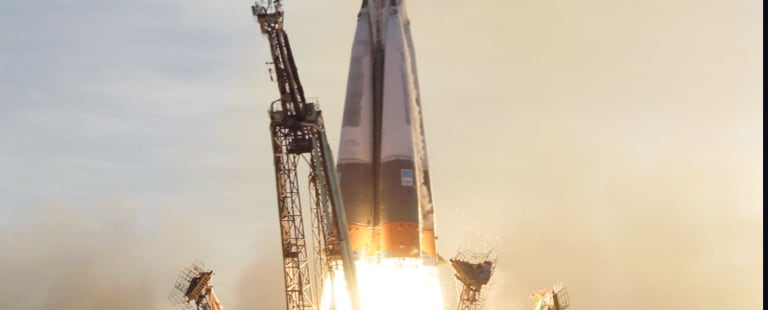
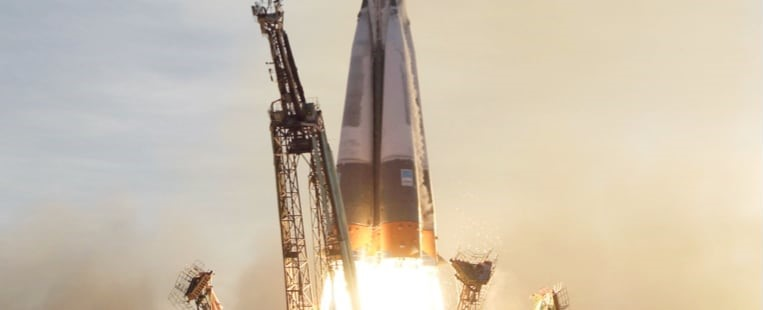
crew mobile page fully functional
- edited launch vehicle photo to remove empty space

diff --git a/space-tourism-website-challange/src/components/Technology.jsx b/space-tourism-website-challange/src/components/Technology.jsx
@@ -1,23 +1,30 @@
 import React, { useState, useEffect } from 'react'
 
-import vehicleImg from "../assets/technology/image-launch-vehicle-portrait.jpg";
-import portImg from "../assets/technology/image-spaceport-portrait.jpg";
-import capsuleImg from "../assets/technology/image-space-capsule-portrait.jpg";
+import vehicleImgP from "../assets/technology/image-launch-vehicle-portrait.jpg";
+import vehicleImgL from "../assets/technology/image-launch-vehicle-landscape.jpg";
+import portImgP from "../assets/technology/image-spaceport-portrait.jpg";
+import portImgL from "../assets/technology/image-spaceport-landscape.jpg"
+import capsuleImgP from "../assets/technology/image-space-capsule-portrait.jpg";
+import capsuleImgL from "../assets/technology/image-space-capsule-landscape.jpg";
 
 export const Technology = () => {
+  const vehicleImg = {portrait: vehicleImgP, landscape: vehicleImgL};
+  const portImg = {portrait: portImgP, landscape: portImgL};
+  const capsuleImg = {portrait: capsuleImgP, landscape: capsuleImgL};
+
   const Vehicle = {name: "LAUNCH VEHICLE", desc: "A launch vehicle or carrier rocket is a rocket-propelled vehicle used to carry a payload from Earth's surface to space, usually to Earth orbit or beyond. Our  WEB-X carrier rocket is the most powerful in operation. Standing 150 metres tall, it's quite an awe-inspiring sight on the launch pad!"};
   const Port = {name: "SPACEPORT", desc: "A spaceport or cosmodrome is a site for launching (or receiving) spacecraft, by analogy to the seaport for ships or airport for aircraft. Based in the famous Cape Canaveral, our spaceport is ideally situated to take advantage of the Earth’s rotation for launch."};
   const Capsule = {name: "SPACE CAPSULE", desc: " A space capsule is an often-crewed spacecraft that uses a blunt-body reentry capsule to reenter the Earth's atmosphere without wings. Our capsule is where you'll spend your time during the flight. It includes a space gym, cinema, and plenty of other activities to keep you entertained."};
 
   const initalTech = () => JSON.parse(localStorage.getItem("Technology")) || Vehicle;
-  const initialImg = () => localStorage.getItem("TechnologyImg") || vehicleImg;
+  const initialImg = () => JSON.parse(localStorage.getItem("TechnologyImg")) || vehicleImg;
 
   const[currentTech, setCurrentTech] = useState(initalTech);
   const[currentTechImg, setCurrentTechImg] = useState(initialImg);
 
   useEffect(() => {
     localStorage.setItem("Technology", JSON.stringify(currentTech));
-    localStorage.setItem("TechnologyImg", currentTechImg);
+    localStorage.setItem("TechnologyImg", JSON.stringify(currentTechImg));
   });
 
   document.body.className = "technology-page";
@@ -56,7 +63,11 @@ export const Technology = () => {
         </div>
       </div>
       <div className='tech-img-container'>
-          <img src={currentTechImg} alt="" />
+        {/* <img src={currentTechImg} alt="" /> */}
+          <picture>
+            <source media='(max-width: 600px)' srcSet={currentTechImg.landscape}/>
+            <img src={currentTechImg.portrait} alt="" />
+          </picture>
       </div>
     </div>
   )

diff --git a/space-tourism-website-challange/src/index.css b/space-tourism-website-challange/src/index.css
@@ -711,6 +711,14 @@ header {
     order: 1;
   }
 
+  .tech-img-container img {
+    width: 100%;
+    height: 100%;
+    margin-top: 2rem;
+    margin-bottom: 2rem;
+    object-fit: cover;
+  }
+
   .tech-nav-container {
     flex-direction: row;
     order: 2;
